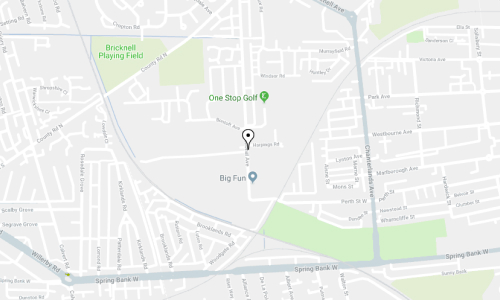
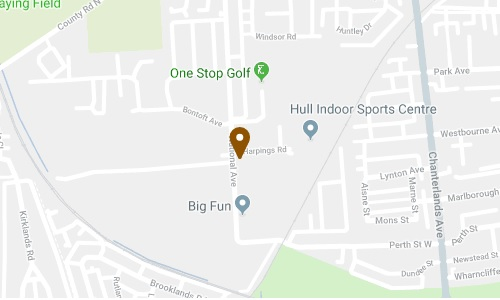
update map img and add first draft of text.

diff --git a/src/pages/thank-you.js b/src/pages/thank-you.js
@@ -34,7 +34,8 @@ const CardContainer = styled.div`
 `
 
 const CardLink = styled(Link)`
-  min-width: 335px;
+  width: 335px;
+  min-height: 641px;
   margin: 0 20px;
 
   @media ${device.laptopL} {
@@ -58,6 +59,7 @@ const CardLink = styled(Link)`
 `
 
 const Card = styled.div`
+  height: 100%;
   box-shadow: 0 0 4px 0 rgba(0, 0, 0, 0.2);
   border: 1px solid #ccc;
 
@@ -67,6 +69,10 @@ const Card = styled.div`
 `
 
 const CardContent = styled.div`
+  height: 416px;
+  display: flex;
+  flex-direction: column;
+  justify-content: space-between;
   padding: 20px;
 `
 
@@ -128,14 +134,14 @@ class ThankYouPage extends Component {
               <Card>
                 <CardImg fluid={data.project.childImageSharp.fluid} />
                 <CardContent>
-                  <CardHeader>Projects</CardHeader>
-                  <p>
-                    Selling point about big brands not being able to provide the
-                    same level as we can - pastrami ex ad culpa. Jerky ad mollit
-                    dolor beef ribs esse biltong minim sirloin elit leberkas
-                    short loin flank ex ut. Ribeye alcatra fatback, tail id
-                    sausage laboris pancetta shoulder ut rump turkey et.
-                  </p>
+                  <div>
+                    <CardHeader>Projects</CardHeader>
+                    <p>
+                      If we get the opportunity to take pictures of a completed
+                      job we are always more than happy to display them here on
+                      our website to serve as great examples of our work.
+                    </p>
+                  </div>
                   <CardButton>Projects</CardButton>
                 </CardContent>
               </Card>
@@ -144,14 +150,20 @@ class ThankYouPage extends Component {
               <Card>
                 <CardImg fluid={data.contact.childImageSharp.fluid} />
                 <CardContent>
-                  <CardHeader>Contact Us</CardHeader>
-                  <p>
-                    Selling point about big brands not being able to provide the
-                    same level as we can - pastrami ex ad culpa. Jerky ad mollit
-                    dolor beef ribs esse biltong minim sirloin elit leberkas
-                    short loin flank ex ut. Ribeye alcatra fatback, tail id
-                    sausage laboris pancetta shoulder ut rump turkey et.
-                  </p>
+                  <div>
+                    <CardHeader>Contact Us</CardHeader>
+                    <p>
+                      If you have any questions don't hesitate to get in touch.
+                    </p>
+                    <p>
+                      289 National Avenue, <br />
+                      Hull, HU5 4JB
+                    </p>
+                    <p>
+                      <strong>T: </strong>01482 475 370 <br />
+                      <strong>E: </strong>info@mulberrykitchens.co.uk
+                    </p>
+                  </div>
                   <CardButton>Contact Us</CardButton>
                 </CardContent>
               </Card>
@@ -160,14 +172,14 @@ class ThankYouPage extends Component {
               <Card>
                 <CardImg fluid={data.testimonial.childImageSharp.fluid} />
                 <CardContent>
-                  <CardHeader>Testimonials</CardHeader>
-                  <p>
-                    Selling point about big brands not being able to provide the
-                    same level as we can - pastrami ex ad culpa. Jerky ad mollit
-                    dolor beef ribs esse biltong minim sirloin elit leberkas
-                    short loin flank ex ut. Ribeye alcatra fatback, tail id
-                    sausage laboris pancetta shoulder ut rump turkey et.
-                  </p>
+                  <div>
+                    <CardHeader>Testimonials</CardHeader>
+                    <p>
+                      There is nothing better than receiving a kind word from a
+                      customer upon a jobs completion. This is a selection of
+                      the testimonials we have collected over the years.
+                    </p>
+                  </div>
                   <CardButton>Testimonials</CardButton>
                 </CardContent>
               </Card>
